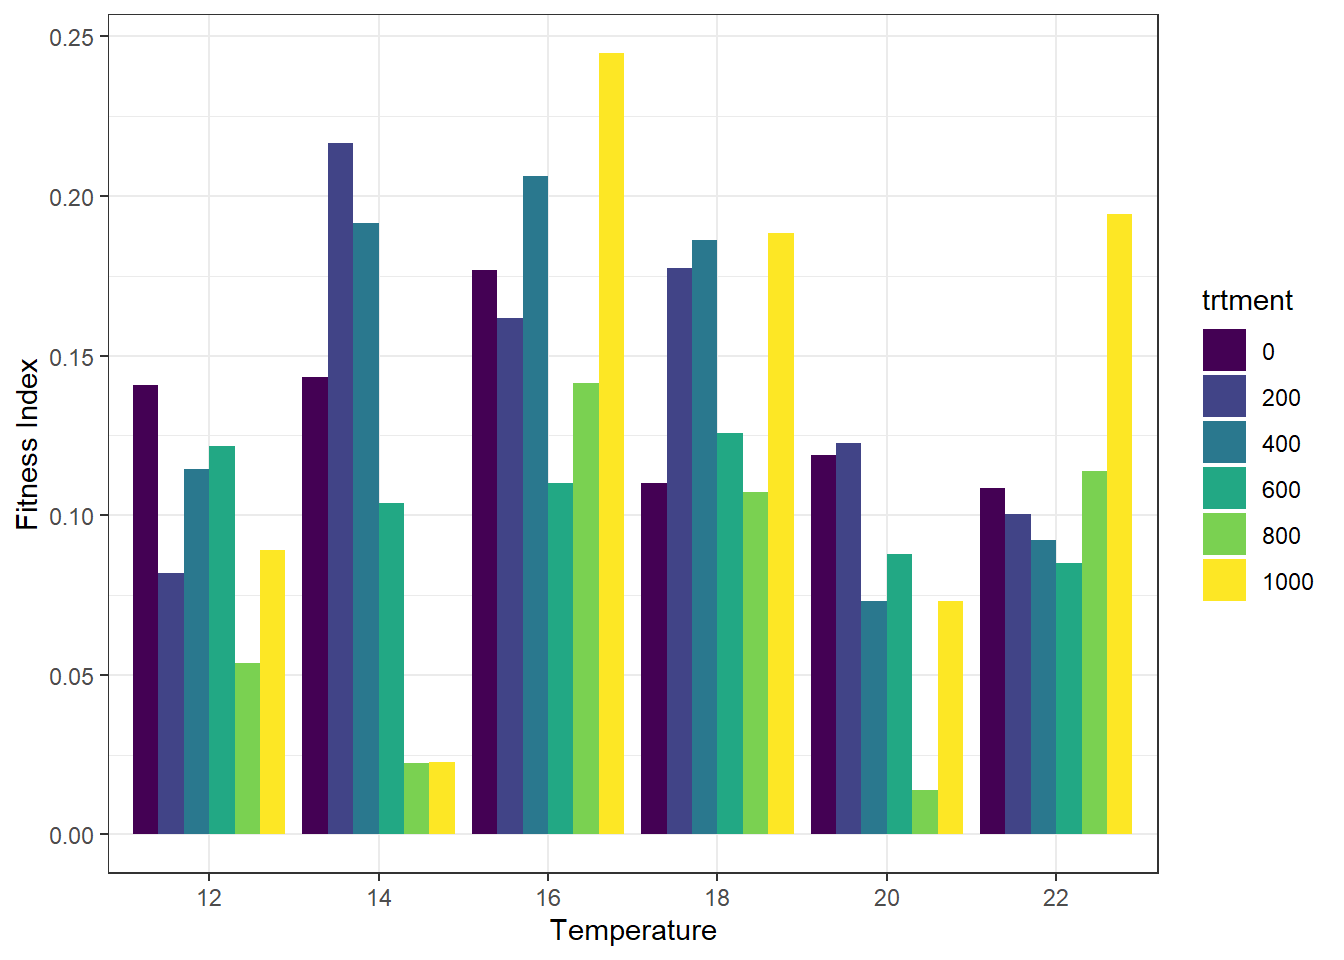
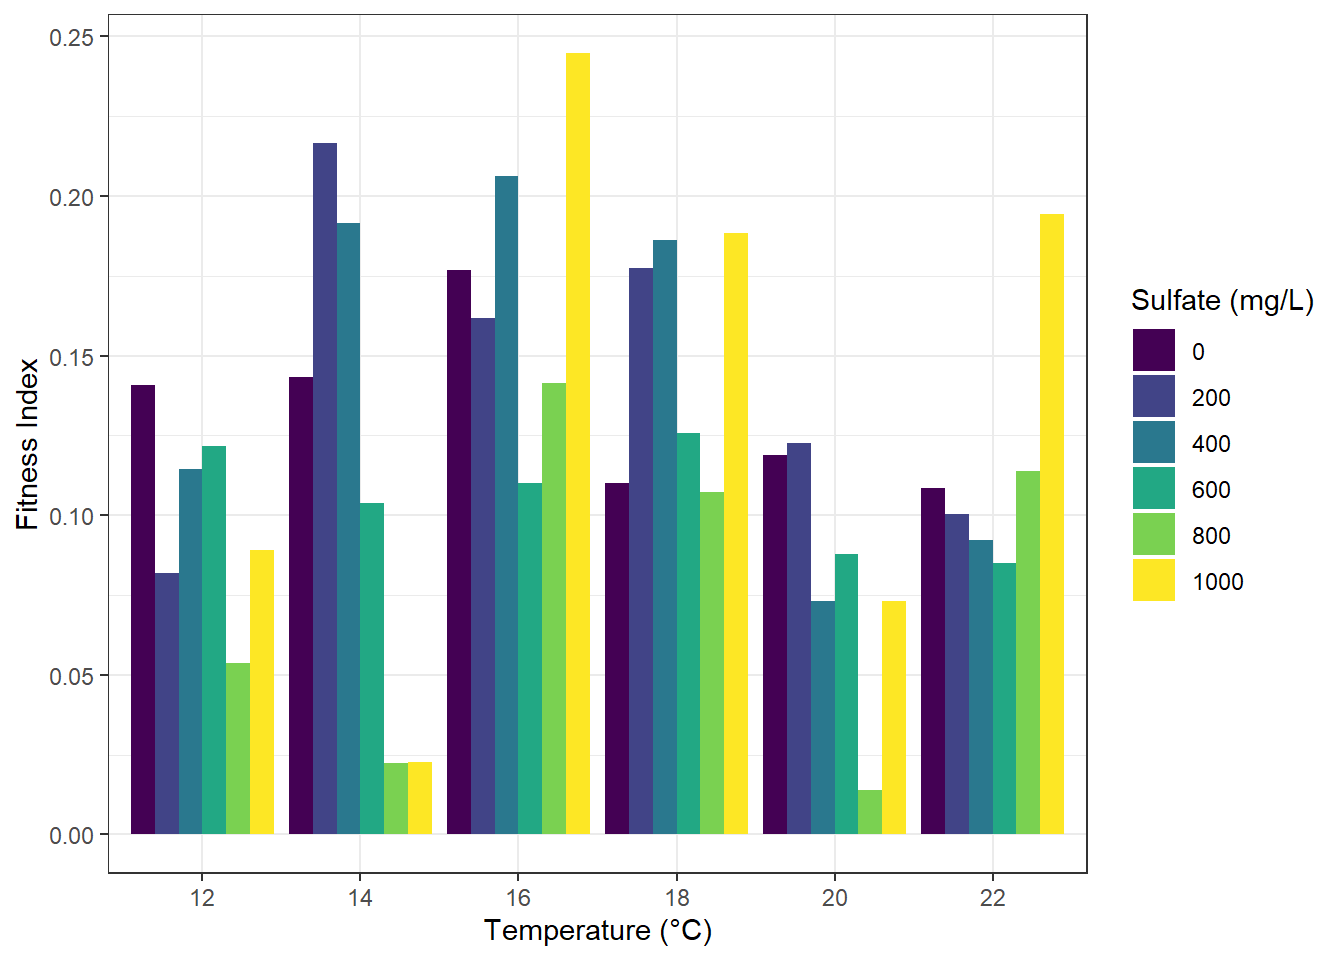
Fixed some labels

diff --git a/docs/fitness.html b/docs/fitness.html
@@ -24,7 +24,7 @@
 <meta name="author" content="Katy Gardner" />
 
 
-<meta name="date" content="2021-04-26" />
+<meta name="date" content="2021-04-27" />
 
   <meta name="viewport" content="width=device-width, initial-scale=1" />
   <meta name="apple-mobile-web-app-capable" content="yes" />
@@ -258,8 +258,8 @@ code span.wa { color: #60a0b0; font-weight: bold; font-style: italic; } /* Warni
 <a class="sourceLine" id="cb34-17" title="17">                                             <span class="dt">zaxis =</span> <span class="kw">list</span>(<span class="dt">title =</span> <span class="st">&#39;Fitness Index&#39;</span>)))</a>
 <a class="sourceLine" id="cb34-18" title="18"></a>
 <a class="sourceLine" id="cb34-19" title="19">surf_fit</a></code></pre></div>
-<div id="htmlwidget-b0900fae7554a531f1a1" style="width:672px;height:480px;" class="plotly html-widget"></div>
-<script type="application/json" data-for="htmlwidget-b0900fae7554a531f1a1">{"x":{"visdat":{"3d785a56d2f":["function () ","plotlyVisDat"]},"cur_data":"3d785a56d2f","attrs":{"3d785a56d2f":{"z":[[0.140685143412217,0.143220950434744,0.176697243439627,0.109929108894883,0.118895798454461,0.108444125629431],[0.081867758815438,0.21668532245432,0.161802198716668,0.177295994291742,0.122468594904893,0.100359487782655],[0.114387836057187,0.191557804736859,0.206256853936537,0.186164270764454,0.0730318247364414,0.0923689928860526],[0.121601175372995,0.103830797166539,0.109931478140631,0.125601968954413,0.0879222850884593,0.085094968421349],[0.0537208318218097,0.0224041113467887,0.141439890436286,0.107377682625295,0.0139102911994651,0.113852619572023],[0.0890226758206065,0.0226753021989608,0.244732063437085,0.188301331869503,0.0731876349440555,0.194455762352886]],"x":[12,14,16,18,20,22],"y":[0,200,400,600,800,1000],"alpha_stroke":1,"sizes":[10,100],"spans":[1,20],"type":"surface"}},"layout":{"margin":{"b":40,"l":60,"t":25,"r":10},"scene":{"xaxis":{"title":"Temperature"},"yaxis":{"title":"Sulfate mg/L"},"zaxis":{"title":"Fitness Index"}},"hovermode":"closest","showlegend":false,"legend":{"yanchor":"top","y":0.5}},"source":"A","config":{"showSendToCloud":false},"data":[{"colorbar":{"title":"","ticklen":2,"len":0.5,"lenmode":"fraction","y":1,"yanchor":"top"},"colorscale":[["0","rgba(68,1,84,1)"],["0.0416666666666667","rgba(70,19,97,1)"],["0.0833333333333333","rgba(72,32,111,1)"],["0.125","rgba(71,45,122,1)"],["0.166666666666667","rgba(68,58,128,1)"],["0.208333333333333","rgba(64,70,135,1)"],["0.25","rgba(60,82,138,1)"],["0.291666666666667","rgba(56,93,140,1)"],["0.333333333333333","rgba(49,104,142,1)"],["0.375","rgba(46,114,142,1)"],["0.416666666666667","rgba(42,123,142,1)"],["0.458333333333333","rgba(38,133,141,1)"],["0.5","rgba(37,144,140,1)"],["0.541666666666667","rgba(33,154,138,1)"],["0.583333333333333","rgba(39,164,133,1)"],["0.625","rgba(47,174,127,1)"],["0.666666666666667","rgba(53,183,121,1)"],["0.708333333333333","rgba(79,191,110,1)"],["0.75","rgba(98,199,98,1)"],["0.791666666666667","rgba(119,207,85,1)"],["0.833333333333333","rgba(147,214,70,1)"],["0.875","rgba(172,220,52,1)"],["0.916666666666667","rgba(199,225,42,1)"],["0.958333333333333","rgba(226,228,40,1)"],["1","rgba(253,231,37,1)"]],"showscale":true,"z":[[0.140685143412217,0.143220950434744,0.176697243439627,0.109929108894883,0.118895798454461,0.108444125629431],[0.081867758815438,0.21668532245432,0.161802198716668,0.177295994291742,0.122468594904893,0.100359487782655],[0.114387836057187,0.191557804736859,0.206256853936537,0.186164270764454,0.0730318247364414,0.0923689928860526],[0.121601175372995,0.103830797166539,0.109931478140631,0.125601968954413,0.0879222850884593,0.085094968421349],[0.0537208318218097,0.0224041113467887,0.141439890436286,0.107377682625295,0.0139102911994651,0.113852619572023],[0.0890226758206065,0.0226753021989608,0.244732063437085,0.188301331869503,0.0731876349440555,0.194455762352886]],"x":[12,14,16,18,20,22],"y":[0,200,400,600,800,1000],"type":"surface","frame":null}],"highlight":{"on":"plotly_click","persistent":false,"dynamic":false,"selectize":false,"opacityDim":0.2,"selected":{"opacity":1},"debounce":0},"shinyEvents":["plotly_hover","plotly_click","plotly_selected","plotly_relayout","plotly_brushed","plotly_brushing","plotly_clickannotation","plotly_doubleclick","plotly_deselect","plotly_afterplot","plotly_sunburstclick"],"base_url":"https://plot.ly"},"evals":[],"jsHooks":[]}</script>
+<div id="htmlwidget-49cbc3a5ec70a724978b" style="width:672px;height:480px;" class="plotly html-widget"></div>
+<script type="application/json" data-for="htmlwidget-49cbc3a5ec70a724978b">{"x":{"visdat":{"2c542330188f":["function () ","plotlyVisDat"]},"cur_data":"2c542330188f","attrs":{"2c542330188f":{"z":[[0.140685143412217,0.143220950434744,0.176697243439627,0.109929108894883,0.118895798454461,0.108444125629431],[0.081867758815438,0.21668532245432,0.161802198716668,0.177295994291742,0.122468594904893,0.100359487782655],[0.114387836057187,0.191557804736859,0.206256853936537,0.186164270764454,0.0730318247364414,0.0923689928860526],[0.121601175372995,0.103830797166539,0.109931478140631,0.125601968954413,0.0879222850884593,0.085094968421349],[0.0537208318218097,0.0224041113467887,0.141439890436286,0.107377682625295,0.0139102911994651,0.113852619572023],[0.0890226758206065,0.0226753021989608,0.244732063437085,0.188301331869503,0.0731876349440555,0.194455762352886]],"x":[12,14,16,18,20,22],"y":[0,200,400,600,800,1000],"alpha_stroke":1,"sizes":[10,100],"spans":[1,20],"type":"surface"}},"layout":{"margin":{"b":40,"l":60,"t":25,"r":10},"scene":{"xaxis":{"title":"Temperature"},"yaxis":{"title":"Sulfate mg/L"},"zaxis":{"title":"Fitness Index"}},"hovermode":"closest","showlegend":false,"legend":{"yanchor":"top","y":0.5}},"source":"A","config":{"showSendToCloud":false},"data":[{"colorbar":{"title":"","ticklen":2,"len":0.5,"lenmode":"fraction","y":1,"yanchor":"top"},"colorscale":[["0","rgba(68,1,84,1)"],["0.0416666666666667","rgba(70,19,97,1)"],["0.0833333333333333","rgba(72,32,111,1)"],["0.125","rgba(71,45,122,1)"],["0.166666666666667","rgba(68,58,128,1)"],["0.208333333333333","rgba(64,70,135,1)"],["0.25","rgba(60,82,138,1)"],["0.291666666666667","rgba(56,93,140,1)"],["0.333333333333333","rgba(49,104,142,1)"],["0.375","rgba(46,114,142,1)"],["0.416666666666667","rgba(42,123,142,1)"],["0.458333333333333","rgba(38,133,141,1)"],["0.5","rgba(37,144,140,1)"],["0.541666666666667","rgba(33,154,138,1)"],["0.583333333333333","rgba(39,164,133,1)"],["0.625","rgba(47,174,127,1)"],["0.666666666666667","rgba(53,183,121,1)"],["0.708333333333333","rgba(79,191,110,1)"],["0.75","rgba(98,199,98,1)"],["0.791666666666667","rgba(119,207,85,1)"],["0.833333333333333","rgba(147,214,70,1)"],["0.875","rgba(172,220,52,1)"],["0.916666666666667","rgba(199,225,42,1)"],["0.958333333333333","rgba(226,228,40,1)"],["1","rgba(253,231,37,1)"]],"showscale":true,"z":[[0.140685143412217,0.143220950434744,0.176697243439627,0.109929108894883,0.118895798454461,0.108444125629431],[0.081867758815438,0.21668532245432,0.161802198716668,0.177295994291742,0.122468594904893,0.100359487782655],[0.114387836057187,0.191557804736859,0.206256853936537,0.186164270764454,0.0730318247364414,0.0923689928860526],[0.121601175372995,0.103830797166539,0.109931478140631,0.125601968954413,0.0879222850884593,0.085094968421349],[0.0537208318218097,0.0224041113467887,0.141439890436286,0.107377682625295,0.0139102911994651,0.113852619572023],[0.0890226758206065,0.0226753021989608,0.244732063437085,0.188301331869503,0.0731876349440555,0.194455762352886]],"x":[12,14,16,18,20,22],"y":[0,200,400,600,800,1000],"type":"surface","frame":null}],"highlight":{"on":"plotly_click","persistent":false,"dynamic":false,"selectize":false,"opacityDim":0.2,"selected":{"opacity":1},"debounce":0},"shinyEvents":["plotly_hover","plotly_click","plotly_selected","plotly_relayout","plotly_brushed","plotly_brushing","plotly_clickannotation","plotly_doubleclick","plotly_deselect","plotly_afterplot","plotly_sunburstclick"],"base_url":"https://plot.ly"},"evals":[],"jsHooks":[]}</script>
 <p>Not seeing a clear trend from the 3D surface plot, whether it be to temperature, sulfate, or an interaction of the two.
 (hint: it moves! drag it around to view from different angles)</p>
 </div>
@@ -274,17 +274,15 @@ The method we will use here still shows individual tanks and what their treatmen
 <a class="sourceLine" id="cb35-5" title="5"><span class="kw">ggplot</span>(tank_fit, <span class="kw">aes</span>(<span class="dt">fill=</span>trtment, <span class="dt">y=</span>fit_index, <span class="dt">x=</span>temp)) <span class="op">+</span><span class="st"> </span></a>
 <a class="sourceLine" id="cb35-6" title="6"><span class="st">  </span><span class="kw">geom_bar</span>(<span class="dt">position=</span><span class="st">&quot;dodge&quot;</span>, <span class="dt">stat=</span><span class="st">&quot;identity&quot;</span>) <span class="op">+</span></a>
 <a class="sourceLine" id="cb35-7" title="7"><span class="st">  </span><span class="kw">scale_fill_viridis_d</span>()<span class="op">+</span></a>
-<a class="sourceLine" id="cb35-8" title="8"><span class="st">  </span><span class="kw">xlab</span>(<span class="st">&quot;Temperature&quot;</span>) <span class="op">+</span></a>
-<a class="sourceLine" id="cb35-9" title="9"><span class="st">  </span><span class="kw">ylab</span>(<span class="st">&quot;Fitness Index&quot;</span>) <span class="op">+</span></a>
-<a class="sourceLine" id="cb35-10" title="10"><span class="st">  </span><span class="kw">theme_bw</span>()</a></code></pre></div>
+<a class="sourceLine" id="cb35-8" title="8"><span class="st">  </span><span class="kw">labs</span>(<span class="dt">x =</span> <span class="st">&quot;Temperature (°C)&quot;</span>, <span class="dt">y =</span> <span class="st">&quot;Fitness Index&quot;</span>, <span class="dt">fill =</span> <span class="st">&quot;Sulfate (mg/L)&quot;</span>) <span class="op">+</span></a>
+<a class="sourceLine" id="cb35-9" title="9"><span class="st">  </span><span class="kw">theme_bw</span>()</a></code></pre></div>
 <p><img src="project_bookdown_files/figure-html/unnamed-chunk-27-1.png" width="672" /></p>
 <div class="sourceCode" id="cb36"><pre class="sourceCode r"><code class="sourceCode r"><a class="sourceLine" id="cb36-1" title="1"><span class="co">#grouped by sulfate treatment</span></a>
 <a class="sourceLine" id="cb36-2" title="2"><span class="kw">ggplot</span>(tank_fit, <span class="kw">aes</span>(<span class="dt">fill=</span>temp, <span class="dt">y=</span>fit_index, <span class="dt">x=</span>trtment)) <span class="op">+</span><span class="st"> </span></a>
 <a class="sourceLine" id="cb36-3" title="3"><span class="st">  </span><span class="kw">geom_bar</span>(<span class="dt">position=</span><span class="st">&quot;dodge&quot;</span>, <span class="dt">stat=</span><span class="st">&quot;identity&quot;</span>)<span class="op">+</span></a>
 <a class="sourceLine" id="cb36-4" title="4"><span class="st">  </span><span class="kw">scale_fill_viridis_d</span>()<span class="op">+</span></a>
-<a class="sourceLine" id="cb36-5" title="5"><span class="st">  </span><span class="kw">xlab</span>(<span class="st">&quot;Sulfate (mg/L)&quot;</span>) <span class="op">+</span></a>
-<a class="sourceLine" id="cb36-6" title="6"><span class="st">  </span><span class="kw">ylab</span>(<span class="st">&quot;Fitness Index&quot;</span>) <span class="op">+</span></a>
-<a class="sourceLine" id="cb36-7" title="7"><span class="st">  </span><span class="kw">theme_bw</span>()</a></code></pre></div>
+<a class="sourceLine" id="cb36-5" title="5"><span class="st">  </span><span class="kw">labs</span>(<span class="dt">x =</span> <span class="st">&quot;Sulfate (mg/L)&quot;</span>, <span class="dt">y =</span> <span class="st">&quot;Fitness Index&quot;</span>, <span class="dt">fill =</span> <span class="st">&quot;Temperature (°C)&quot;</span>) <span class="op">+</span></a>
+<a class="sourceLine" id="cb36-6" title="6"><span class="st">  </span><span class="kw">theme_bw</span>()</a></code></pre></div>
 <p><img src="project_bookdown_files/figure-html/unnamed-chunk-27-2.png" width="672" /></p>
 <p>Hmm… again, no clear patterns. Perhaps this is because grouped bar plots like this are a bit messy. Let’s average fitness index values across single treatments to simplify the plots.</p>
 </div>
@@ -296,14 +294,14 @@ The method we will use here still shows individual tanks and what their treatmen
 <a class="sourceLine" id="cb37-4" title="4"><span class="st">  </span><span class="kw">summarise</span>(<span class="dt">fit_index =</span> <span class="kw">mean</span>(fit_index))</a>
 <a class="sourceLine" id="cb37-5" title="5"></a>
 <a class="sourceLine" id="cb37-6" title="6"><span class="kw">ggplot</span>(tank_fit, <span class="kw">aes</span>(<span class="dt">x=</span>temp, <span class="dt">y=</span>fit_index, <span class="dt">color =</span> temp, <span class="dt">fill =</span> temp)) <span class="op">+</span></a>
-<a class="sourceLine" id="cb37-7" title="7"><span class="st">  </span><span class="kw">geom_point</span>() <span class="op">+</span></a>
+<a class="sourceLine" id="cb37-7" title="7"><span class="st">  </span><span class="kw">geom_point</span>(<span class="kw">aes</span>(<span class="dt">shape =</span> trtment)) <span class="op">+</span></a>
 <a class="sourceLine" id="cb37-8" title="8"><span class="st">  </span><span class="kw">geom_bar</span>(<span class="dt">data=</span>avg, <span class="dt">stat =</span> <span class="st">&quot;identity&quot;</span>, <span class="dt">alpha =</span> <span class="fl">0.7</span>) <span class="op">+</span></a>
 <a class="sourceLine" id="cb37-9" title="9"><span class="st">  </span>ggrepel<span class="op">::</span><span class="kw">geom_text_repel</span>(<span class="kw">aes</span>(<span class="dt">label =</span> tank), <span class="dt">color =</span> <span class="st">&quot;black&quot;</span>, <span class="dt">size =</span> <span class="fl">2.5</span>, <span class="dt">segment.color =</span> <span class="st">&quot;grey&quot;</span>) <span class="op">+</span></a>
 <a class="sourceLine" id="cb37-10" title="10"><span class="st">  </span><span class="kw">scale_color_viridis_d</span>() <span class="op">+</span></a>
 <a class="sourceLine" id="cb37-11" title="11"><span class="st">  </span><span class="kw">scale_fill_viridis_d</span>() <span class="op">+</span></a>
-<a class="sourceLine" id="cb37-12" title="12"><span class="st">  </span><span class="kw">xlab</span>(<span class="st">&quot;Temperature&quot;</span>) <span class="op">+</span></a>
-<a class="sourceLine" id="cb37-13" title="13"><span class="st">  </span><span class="kw">ylab</span>(<span class="st">&quot;Fitness Index&quot;</span>) <span class="op">+</span></a>
-<a class="sourceLine" id="cb37-14" title="14"><span class="st">  </span><span class="kw">theme_bw</span>()</a></code></pre></div>
+<a class="sourceLine" id="cb37-12" title="12"><span class="st">  </span><span class="kw">labs</span>(<span class="dt">x =</span> <span class="st">&quot;Temperature (°C)&quot;</span>, <span class="dt">y =</span> <span class="st">&quot;Fitness Index&quot;</span>) <span class="op">+</span></a>
+<a class="sourceLine" id="cb37-13" title="13"><span class="st">  </span><span class="kw">theme_bw</span>() <span class="op">+</span></a>
+<a class="sourceLine" id="cb37-14" title="14"><span class="st">  </span><span class="kw">theme</span>(<span class="dt">legend.position =</span> <span class="st">&quot;none&quot;</span>)</a></code></pre></div>
 <p><img src="project_bookdown_files/figure-html/unnamed-chunk-28-1.png" width="672" /></p>
 <div class="sourceCode" id="cb38"><pre class="sourceCode r"><code class="sourceCode r"><a class="sourceLine" id="cb38-1" title="1"><span class="co">#fitness index averaged by sulfate treatment</span></a>
 <a class="sourceLine" id="cb38-2" title="2">avg &lt;-<span class="st"> </span>tank_fit <span class="op">%&gt;%</span></a>
@@ -311,14 +309,14 @@ The method we will use here still shows individual tanks and what their treatmen
 <a class="sourceLine" id="cb38-4" title="4"><span class="st">  </span><span class="kw">summarise</span>(<span class="dt">fit_index =</span> <span class="kw">mean</span>(fit_index))</a>
 <a class="sourceLine" id="cb38-5" title="5"></a>
 <a class="sourceLine" id="cb38-6" title="6"><span class="kw">ggplot</span>(tank_fit, <span class="kw">aes</span>(<span class="dt">x=</span>trtment, <span class="dt">y=</span>fit_index, <span class="dt">color =</span> trtment, <span class="dt">fill =</span> trtment)) <span class="op">+</span></a>
-<a class="sourceLine" id="cb38-7" title="7"><span class="st">  </span><span class="kw">geom_point</span>() <span class="op">+</span></a>
+<a class="sourceLine" id="cb38-7" title="7"><span class="st">  </span><span class="kw">geom_point</span>(<span class="kw">aes</span>(<span class="dt">shape =</span> temp)) <span class="op">+</span></a>
 <a class="sourceLine" id="cb38-8" title="8"><span class="st">  </span><span class="kw">geom_bar</span>(<span class="dt">data=</span>avg, <span class="dt">stat =</span> <span class="st">&quot;identity&quot;</span>, <span class="dt">alpha =</span> <span class="fl">0.7</span>) <span class="op">+</span></a>
 <a class="sourceLine" id="cb38-9" title="9"><span class="st">  </span>ggrepel<span class="op">::</span><span class="kw">geom_text_repel</span>(<span class="kw">aes</span>(<span class="dt">label =</span> tank), <span class="dt">color =</span> <span class="st">&quot;black&quot;</span>, <span class="dt">size =</span> <span class="fl">2.5</span>, <span class="dt">segment.color =</span> <span class="st">&quot;grey&quot;</span>) <span class="op">+</span></a>
 <a class="sourceLine" id="cb38-10" title="10"><span class="st">  </span><span class="kw">scale_color_viridis_d</span>() <span class="op">+</span></a>
 <a class="sourceLine" id="cb38-11" title="11"><span class="st">  </span><span class="kw">scale_fill_viridis_d</span>() <span class="op">+</span></a>
-<a class="sourceLine" id="cb38-12" title="12"><span class="st">  </span><span class="kw">xlab</span>(<span class="st">&quot;Sulfate mg/L&quot;</span>) <span class="op">+</span></a>
-<a class="sourceLine" id="cb38-13" title="13"><span class="st">  </span><span class="kw">ylab</span>(<span class="st">&quot;Fitness Index&quot;</span>) <span class="op">+</span></a>
-<a class="sourceLine" id="cb38-14" title="14"><span class="st">  </span><span class="kw">theme_bw</span>()</a></code></pre></div>
+<a class="sourceLine" id="cb38-12" title="12"><span class="st">  </span><span class="kw">labs</span>(<span class="dt">x =</span> <span class="st">&quot;Sulfate (mg/L)&quot;</span>, <span class="dt">y =</span> <span class="st">&quot;Fitness Index&quot;</span>) <span class="op">+</span></a>
+<a class="sourceLine" id="cb38-13" title="13"><span class="st">  </span><span class="kw">theme_bw</span>() <span class="op">+</span></a>
+<a class="sourceLine" id="cb38-14" title="14"><span class="st">  </span><span class="kw">theme</span>(<span class="dt">legend.position =</span> <span class="st">&quot;none&quot;</span>)</a></code></pre></div>
 <p><img src="project_bookdown_files/figure-html/unnamed-chunk-28-2.png" width="672" /></p>
 <p>In the plots, the points represent individual tanks, while the bars represent the average fitness index of those tanks.</p>
 <p>There is <em>almost</em> a unimodal patterned response to temperature, but fitness is a bit higher in the highest temp. This is surprising, because other research from my lab has shown <em>Pteronarcys californica</em> has an optimal temperature of about 14-16, and really marginal to no survival at high temperatures like 22C. No clear trends in response to sulfate levels.</p>

diff --git a/docs/index.html b/docs/index.html
@@ -24,7 +24,7 @@
 <meta name="author" content="Katy Gardner" />
 
 
-<meta name="date" content="2021-04-26" />
+<meta name="date" content="2021-04-27" />
 
   <meta name="viewport" content="width=device-width, initial-scale=1" />
   <meta name="apple-mobile-web-app-capable" content="yes" />
@@ -186,7 +186,7 @@ code span.wa { color: #60a0b0; font-weight: bold; font-style: italic; } /* Warni
 <div id="header">
 <h1 class="title">WILD6900: Reproducible Science Project</h1>
 <p class="author"><em>Katy Gardner</em></p>
-<p class="date" style="margin-top: 1.5em;"><em>2021-04-26</em></p>
+<p class="date" style="margin-top: 1.5em;"><em>2021-04-27</em></p>
 </div>
 <div id="introduction" class="section level1">
 <h1><span class="header-section-number">Chapter 1</span> Introduction</h1>

diff --git a/docs/database.html b/docs/database.html
@@ -24,7 +24,7 @@
 <meta name="author" content="Katy Gardner" />
 
 
-<meta name="date" content="2021-04-26" />
+<meta name="date" content="2021-04-27" />
 
   <meta name="viewport" content="width=device-width, initial-scale=1" />
   <meta name="apple-mobile-web-app-capable" content="yes" />

diff --git a/docs/survival.html b/docs/survival.html
@@ -24,7 +24,7 @@
 <meta name="author" content="Katy Gardner" />
 
 
-<meta name="date" content="2021-04-26" />
+<meta name="date" content="2021-04-27" />
 
   <meta name="viewport" content="width=device-width, initial-scale=1" />
   <meta name="apple-mobile-web-app-capable" content="yes" />
